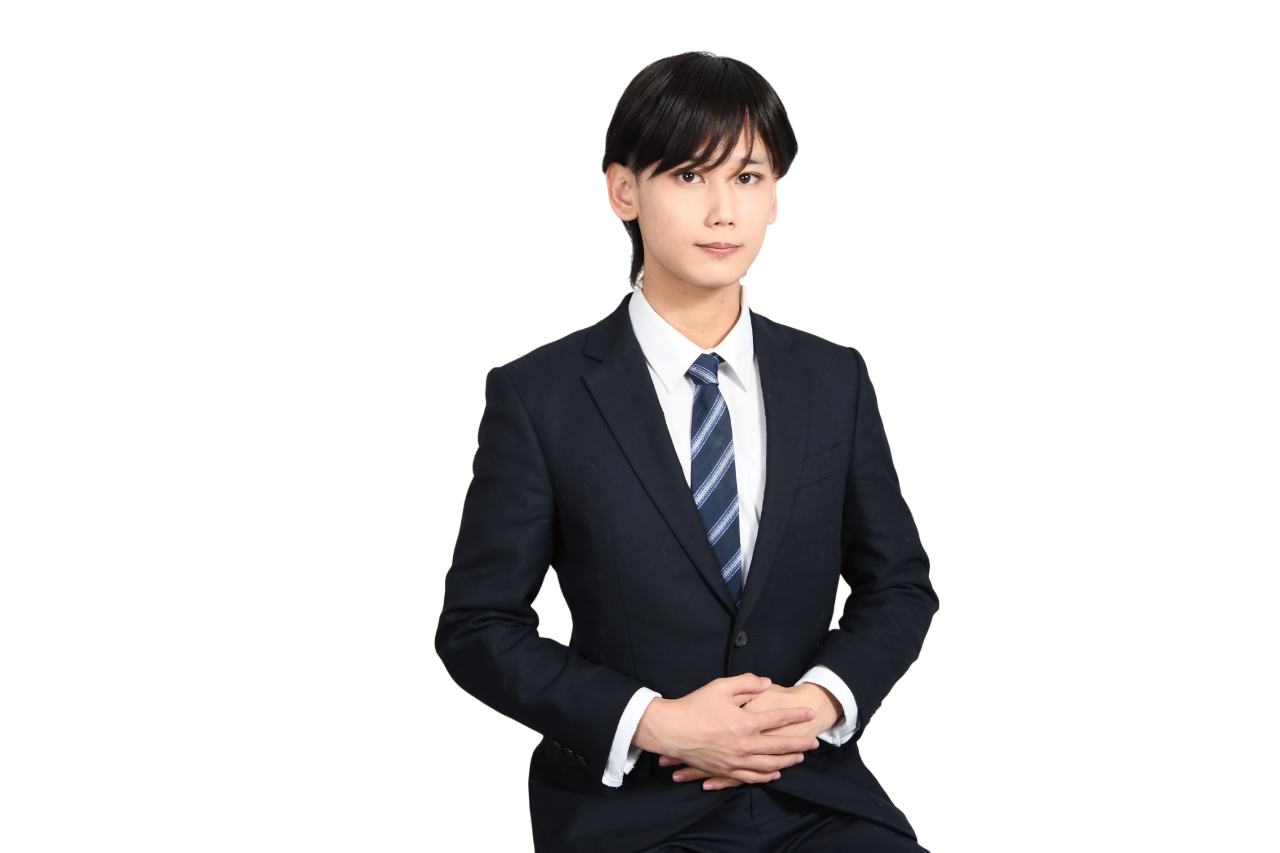
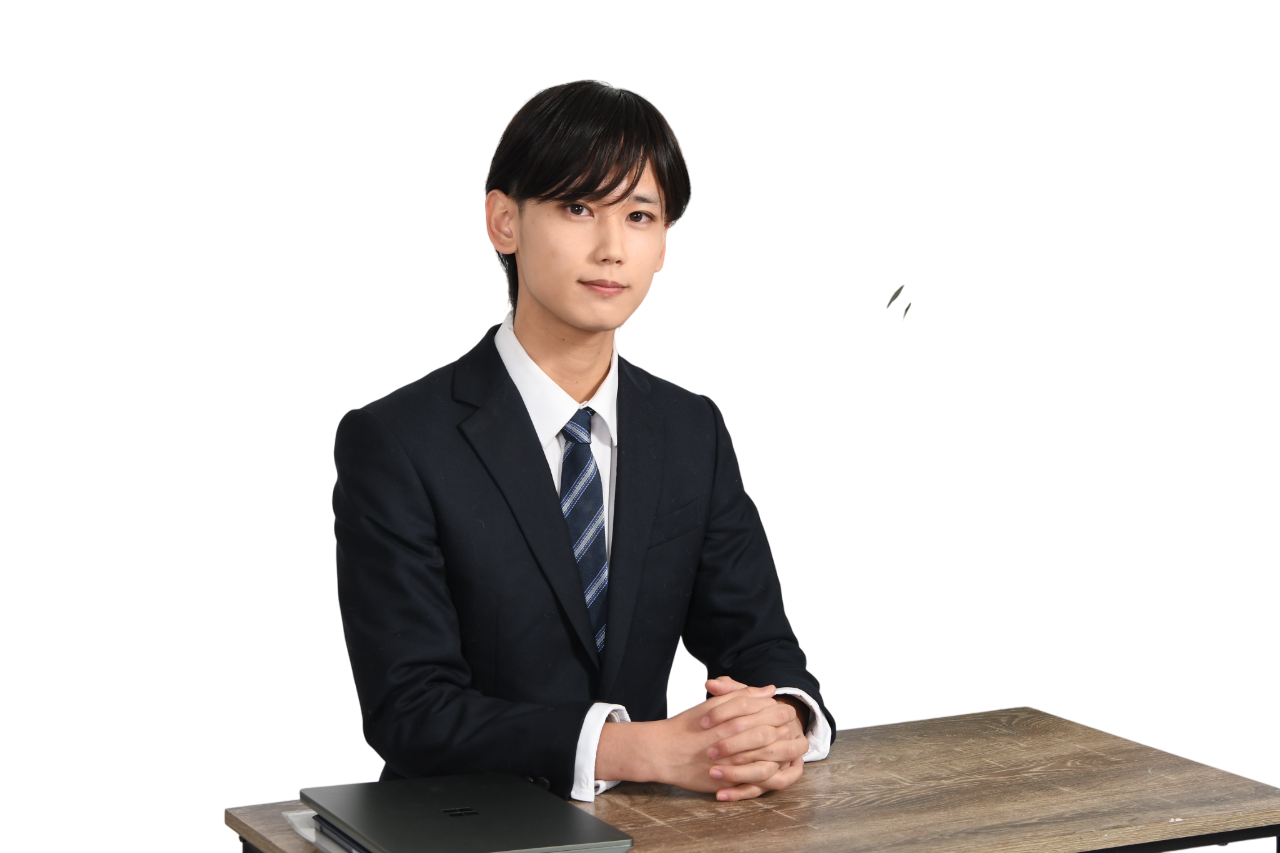
Replace me1.png with me3.png (better composition)
- Replace standing pose with seated desk pose
- me3.png has better upper body framing
- Adjust object-position to 'center top' for optimal focus
- Cleaner composition with hands on desk

🤖 Generated with [Claude Code](https://claude.com/claude-code)

Changed region(s): [[0.1562, 0.061, 1.0, 1.0], [0.6875, 0.3353, 0.7188, 0.3658]]

diff --git a/css/style.css b/css/style.css
@@ -150,7 +150,7 @@ body {
     width: 100%;
     height: 100%;
     object-fit: cover;
-    object-position: center center;
+    object-position: center top;
     opacity: 0;
     transition: opacity 1.5s ease-in-out;
 }
